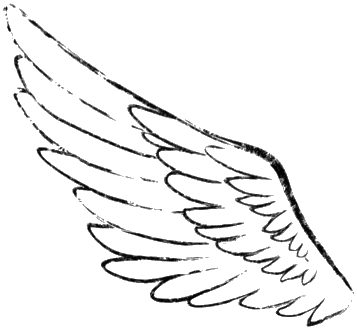
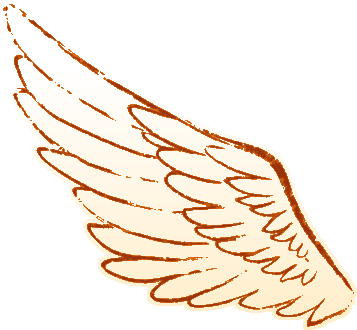
style(wings): adapt wings to warm terracotta palette and harmonious angle for overall poster aesthetic

diff --git a/src/components/HeroMasthead.tsx b/src/components/HeroMasthead.tsx
@@ -138,16 +138,16 @@ export const HeroMasthead: React.FC<HeroMastheadProps> = ({
               Chào mừng Ngày nhà giáo Việt Nam 20/11
             </p>
 
-            {/* Dòng 3: Đôi cánh Ước Mơ nét vẽ nghệ thuật + Chữ 2D Cam Vàng Viền Trắng Bọc Ngoài CHẮP CÁNH / ƯỚC MƠ */}
-            <div className="mt-3 flex items-center justify-center gap-0 sm:gap-2 relative">
+            {/* Dòng 3: Đôi cánh Ước Mơ nét vẽ nghệ thuật màu cam đất ấm áp + Chữ 2D Cam Vàng Viền Trắng CHẮP CÁNH / ƯỚC MƠ */}
+            <div className="mt-2 sm:mt-3 flex items-center justify-center gap-0 sm:gap-2 relative">
               <motion.div
-                animate={{ rotate: [-2, 2.5, -2], y: [0, -5, 0] }}
-                transition={{ duration: 4, repeat: Infinity, ease: 'easeInOut' }}
-                className="shrink-0 -mr-2 sm:-mr-4 md:-mr-6 lg:-mr-8 self-center select-none z-0"
+                animate={{ rotate: [-4, 0, -4], y: [0, -6, 0] }}
+                transition={{ duration: 3.8, repeat: Infinity, ease: 'easeInOut' }}
+                className="shrink-0 -mr-3 sm:-mr-5 md:-mr-8 lg:-mr-10 self-center select-none z-0"
               >
                 <DreamWingSVG
                   side="left"
-                  className="w-16 sm:w-24 md:w-36 lg:w-44 h-auto drop-shadow-[0_6px_16px_rgba(0,0,0,0.2)]"
+                  className="w-16 sm:w-26 md:w-38 lg:w-48 h-auto"
                 />
               </motion.div>
 
@@ -170,13 +170,13 @@ export const HeroMasthead: React.FC<HeroMastheadProps> = ({
               </h1>
 
               <motion.div
-                animate={{ rotate: [2, -2.5, 2], y: [0, -5, 0] }}
-                transition={{ duration: 4, repeat: Infinity, ease: 'easeInOut' }}
-                className="shrink-0 -ml-2 sm:-ml-4 md:-ml-6 lg:-ml-8 self-center select-none z-0"
+                animate={{ rotate: [4, 0, 4], y: [0, -6, 0] }}
+                transition={{ duration: 3.8, repeat: Infinity, ease: 'easeInOut' }}
+                className="shrink-0 -ml-3 sm:-ml-5 md:-ml-8 lg:-ml-10 self-center select-none z-0"
               >
                 <DreamWingSVG
                   side="right"
-                  className="w-16 sm:w-24 md:w-36 lg:w-44 h-auto drop-shadow-[0_6px_16px_rgba(0,0,0,0.2)]"
+                  className="w-16 sm:w-26 md:w-38 lg:w-48 h-auto"
                 />
               </motion.div>
             </div>

diff --git a/src/components/PosterDecorations.tsx b/src/components/PosterDecorations.tsx
@@ -34,14 +34,18 @@ export const PointerHandIcon: React.FC<{ className?: string }> = ({
  * Đôi cánh ước mơ nét vẽ mực đen, ruột trắng mờ (Hand-drawn Sketch Wings)
  * Nền ngoài trong suốt, ruột lông vũ trắng đục nổi bật, viền đen sắc sảo nịnh mắt
  */
+/**
+ * Đôi cánh ước mơ phong cách đồ họa ấm áp (Warm Artistic Wings)
+ * Nền ngoài trong suốt, ruột lông vũ trắng ngà chuyển sắc hổ phách nhẹ, viền cam đất ấm áp đồng điệu với tiêu đề
+ */
 export const DreamWingSVG: React.FC<{
   side: 'left' | 'right';
   className?: string;
-}> = ({ side, className = 'w-16 sm:w-24 md:w-36 lg:w-44 h-auto' }) => (
+}> = ({ side, className = 'w-16 sm:w-26 md:w-38 lg:w-48 h-auto' }) => (
   <img
     src={side === 'left' ? '/decorations/sketch-wing-left.png' : '/decorations/sketch-wing-right.png'}
     alt={side === 'left' ? 'Đôi cánh ước mơ bên trái' : 'Đôi cánh ước mơ bên phải'}
-    className={`${className} object-contain select-none pointer-events-none drop-shadow-[0_6px_16px_rgba(0,0,0,0.2)] transition-transform`}
+    className={`${className} object-contain select-none pointer-events-none drop-shadow-[0_8px_20px_rgba(234,88,12,0.32)] transition-transform`}
     draggable={false}
   />
 );
